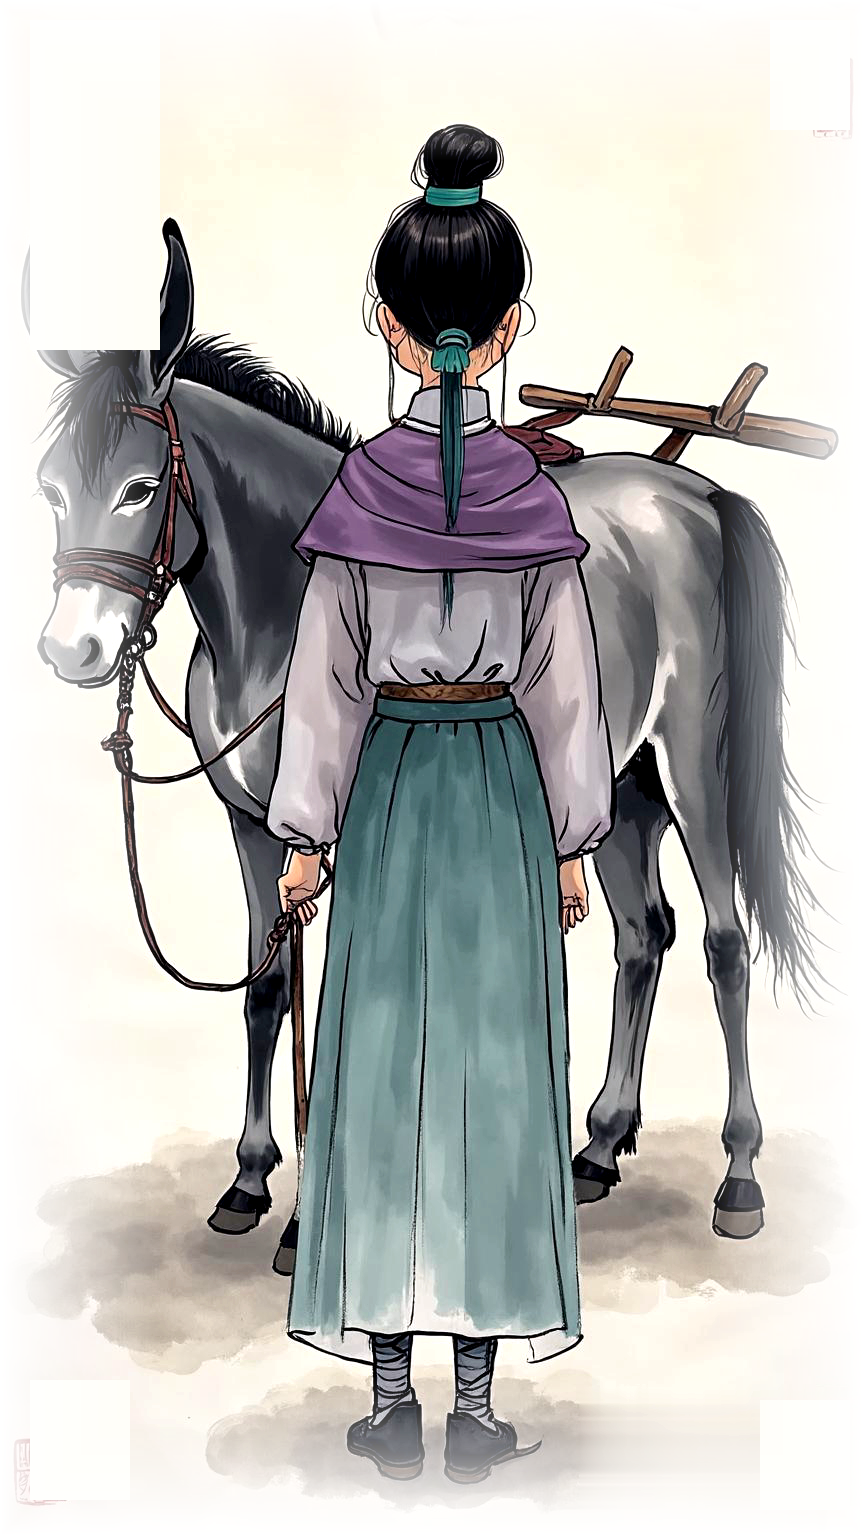
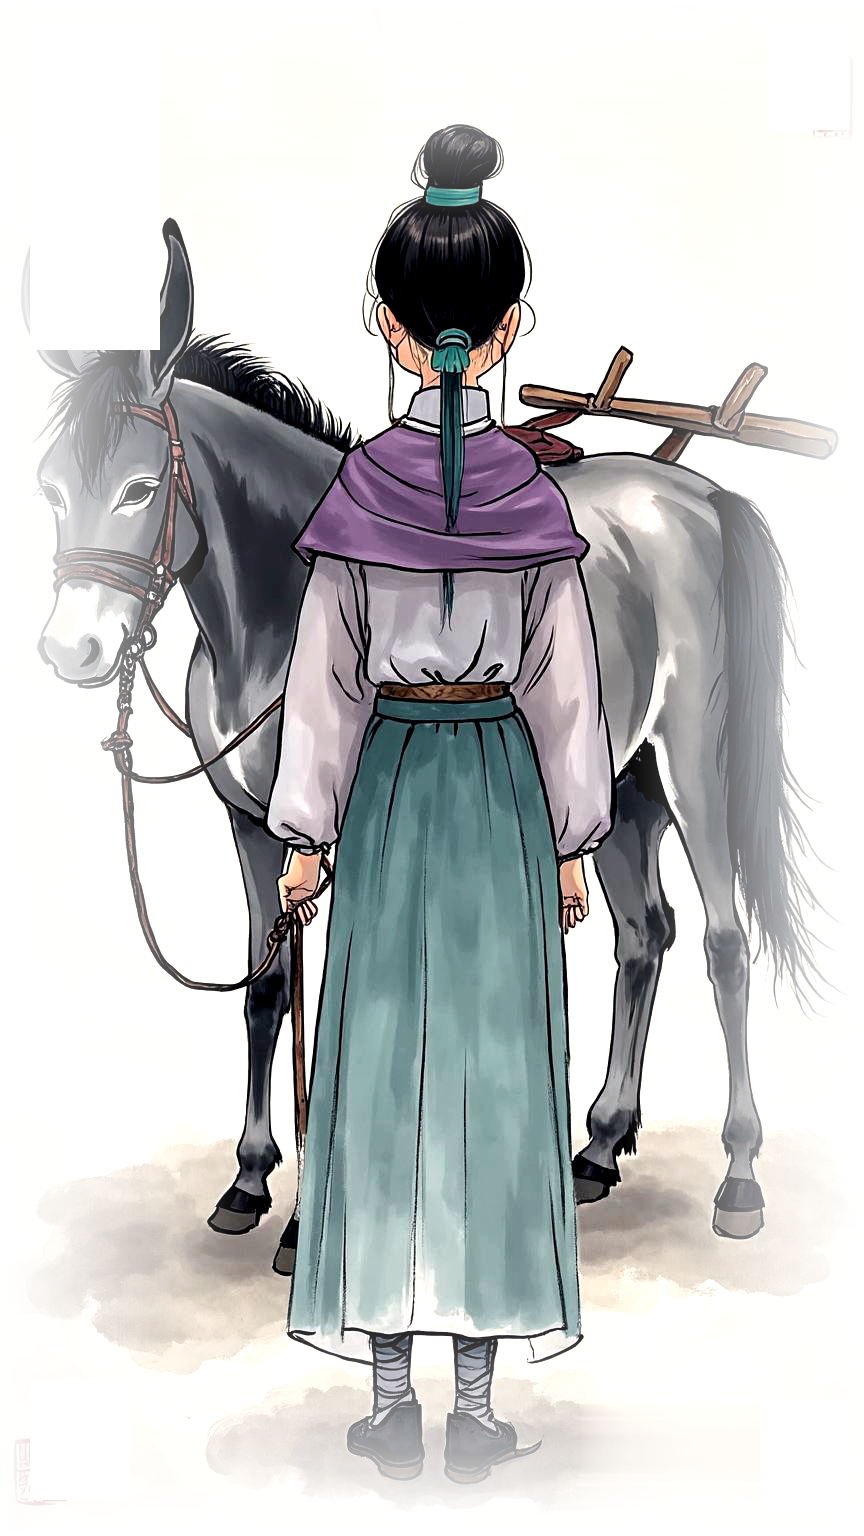
fix(zhi-guo-xiang): 样片二改——人物缩比与融底、人群条站位，子集出片跳过 assemble

diff --git a/videos/zhi-guo-xiang/shots/s21.tsx b/videos/zhi-guo-xiang/shots/s21.tsx
@@ -18,8 +18,8 @@ const S21: FC = () => {
   const f = useCurrentFrame();
   const cam = CM.hold();
   const rim = 1 - CV.hardStep3(Math.min(1, Math.max(0, (f - 110) / 30)));
-  const crowdX = interpolate(f, [0, 140], [140, -1500], CLAMP);
-  const crowdFade = interpolate(f, [80, 140], [1, 0], CLAMP);
+  const crowdX = interpolate(f, [0, 140], [760, -1780], CLAMP);
+  const crowdFade = interpolate(f, [85, 140], [1, 0], CLAMP);
   const grade = GRADES['GR-02'];
 
   return (
@@ -29,14 +29,14 @@ const S21: FC = () => {
         <Img src={BASE} style={{ position: 'absolute', inset: 0, width: '100%', height: '100%', objectFit: 'cover' }} />
 
         {/* 人群条：一边散一边还在说前线的事，自右向左流出画 */}
-        <div style={{ position: 'absolute', left: 0, bottom: 60, height: 420, opacity: crowdFade }}>
+        <div style={{ position: 'absolute', left: 0, bottom: -70, height: 640, opacity: crowdFade }}>
           {TILES.map((t) => (
             <Img
               key={t}
               src={CROWD}
               style={{
                 position: 'absolute',
-                left: t * 840 + crowdX,
+                left: t * 1280 + crowdX,
                 bottom: 0,
                 height: '100%',
                 width: 'auto',

diff --git a/videos/zhi-guo-xiang/shots/s06.tsx b/videos/zhi-guo-xiang/shots/s06.tsx
@@ -32,9 +32,9 @@ const S06: FC = () => {
         <div
           style={{
             position: 'absolute',
-            right: 40,
-            top: 0,
-            height: '100%',
+            right: 30,
+            bottom: 0,
+            height: '74%',
             transform: `translateY(${bob}px) translateX(${sway * 0.6}px)`,
           }}
         >

diff --git a/videos/zhi-guo-xiang/assets/art-direction.md b/videos/zhi-guo-xiang/assets/art-direction.md
@@ -148,10 +148,18 @@
 
 | 镜 | 帧底 | 组成 |
 |---|---|---|
-| S6 渡口牵驴 | 800–980 | G04 底图 + F1 贴片（微起伏+风摆）+ 代码（雾横移、水面金光碎、末 20f 船影靠近、字幕逐字 charStarts） |
-| S21 街头散场 | 2560–2700 | G08 底图（她烤入）+ F7 人群条左移渐隐 + 代码（余光退净、烟灰缓落、天色退暗、字幕） |
+| S6 渡口牵驴 | 800–980 | 底图 `base-s06.jpg`（g04 裁题字印章 + 降饱和）+ 贴片 `fig-xiang16.png`（f1-fix-c 涂白题字 + 纸色归一 + 压深中间调 + 160px 羽化 alpha，multiply 融底）+ 代码（相机缓移、两条雾带横移、水面碎光、末 18f 船影靠近、光尘）+ 字幕 |
+| S21 街头散场 | 2560–2700 | 底图 `base-s21.jpg`（g08 裁边降饱和，她已烤入）+ 贴片 `fig-crowd.png`（f7 人群条 crop + lumakey 0.90/0.10，三片拼接左移渐隐）+ 代码（余光自脸侧退净、烟灰缓落、天色退暗）+ 字幕 |
 
-验收点：①人物抠像边缘干净度 ②底图水墨质感 ③代码动效与底图的融合（不「贴图感」）④16 岁少女的读感。
+**合成工艺实证（2026-11-01）**：
+
+- **人物抠像不可用**：纸色（≈#F0E9DC，亮度 0.88）与衣袖亮部（≈0.87）几乎同色，`lumakey` 必在衣袖打洞、`colorkey` 必在驴腹与袖口留斑；两族阈值（0.86/0.92/0.10/0.14）全部实测失败。
+- **可行路线 = 纸色归一 + 羽化 alpha + multiply 叠底**：`colorlevels` 把纸推到近白 → multiply 时纸≈中性（对底图无影响）→ 羽化 alpha 消矩形硬边。残留：浅色区（裙腰、驴腹）会透出背景纹理，用 `eq=contrast=1.07:brightness=-0.012` 压深中间调缓解。
+- ffmpeg 合成必须全程 `format=rgb24`（rgba→yuv 会把图染绿）；`blend` 要求两路同尺寸，人物先 `pad` 到画布。
+- 底图入仓转 JPEG（`-q:v 3`，约 400KB/张）；带 alpha 的贴片保留 PNG。
+- 水面/雾/船影/烟灰等全部代码层，不烤进图。
+
+验收点：①人物融底是否「贴图感」②底图水墨质感 ③代码动效与底图是否同呼吸 ④16 岁少女的读感。
 
 ## 七、落地顺序（2026-11-01 滚动更新）
 
